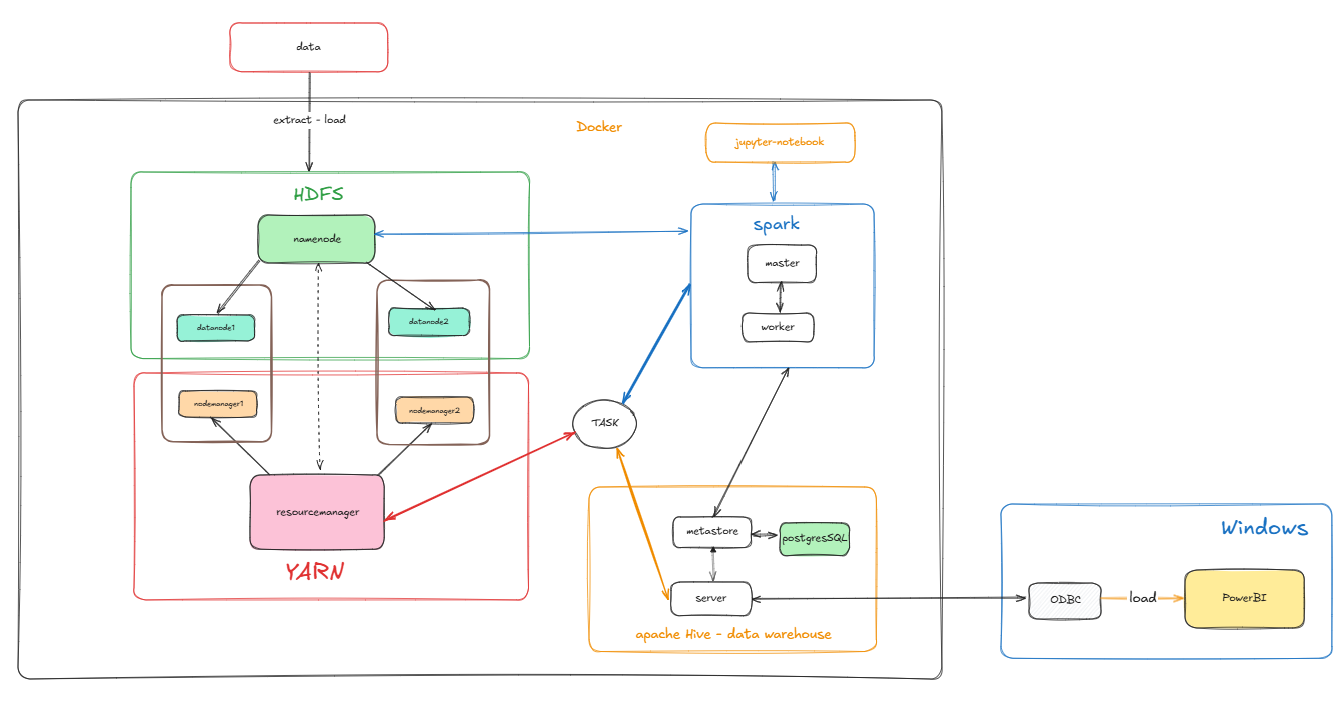
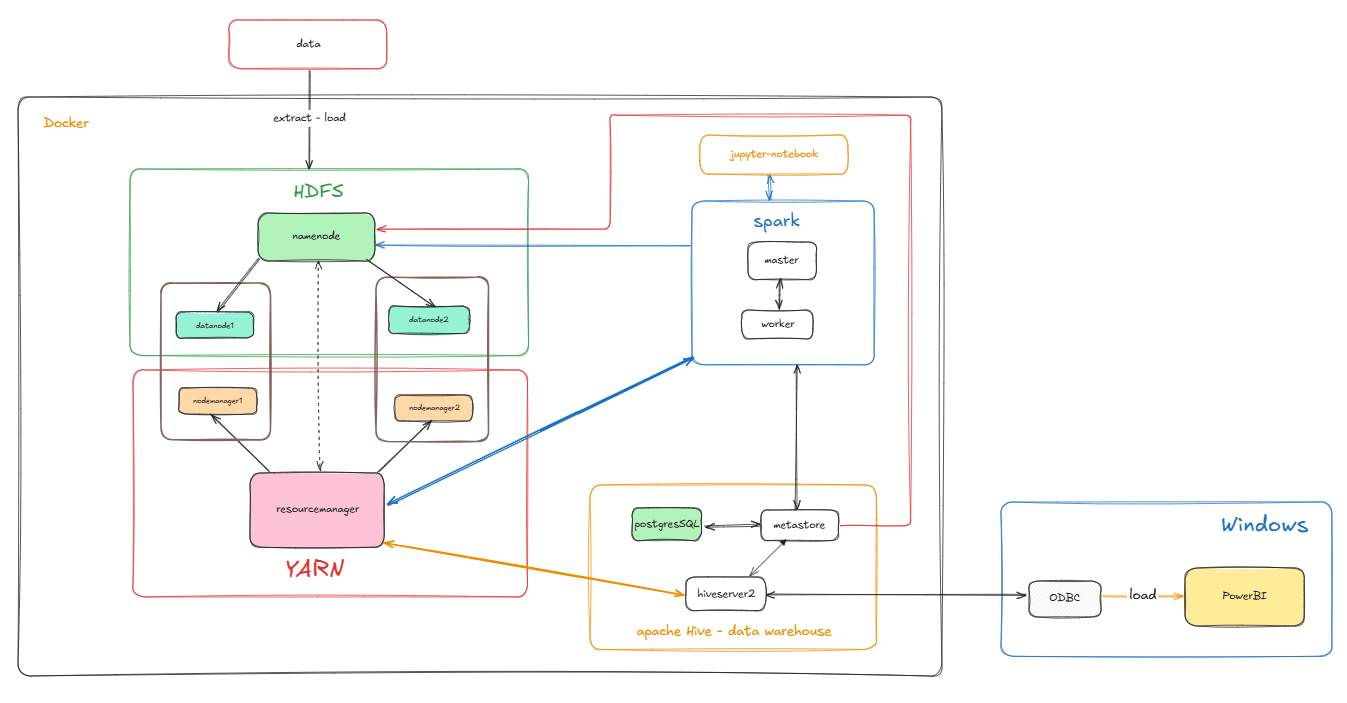
feat: fix confusion of metatstore arch, add hive-web UI

Changed region(s): [[0.0, 0.0299, 1.0, 0.9858], [0.4885, 0.3883, 0.519, 0.478], [0.7327, 0.7468, 0.7632, 0.7767]]

diff --git a/README.md b/README.md
@@ -1,6 +1,9 @@
-# README for Docker-based Big Data Project
+# README for DataSphere Project
+This project is designed to manage a comprehensive data environment, combining both **big data processing** and **data warehousing** using Docker, Hadoop, Apache Hive, Apache Spark, and Jupyter Notebook. The platform enables the storage, processing, and analysis of large-scale datasets while also facilitating structured data management for business intelligence.
 
-This project is designed to manage a big data environment using Docker, Hadoop, Apache Spark, and Jupyter Notebook. The Makefile provided automates several tasks such as starting and stopping Docker containers, updating environment variables, and interacting with HDFS.
+The project utilizes Docker-based images from the [Big Data Europe](https://github.com/big-data-europe) repository. These images are pre-configured for deploying Hadoop, Apache Hive, and Apache Spark, making it easier to set up and manage a big data ecosystem.
+
+The Makefile provided automates several tasks such as starting and stopping Docker containers, updating environment variables, and interacting with HDFS, ensuring a smooth workflow for data processing and analytics.
 
 ## Table of Contents
 
@@ -65,6 +68,7 @@ Stops and removes the running Docker containers associated with the project.
    ```bash
    make push2hdfs
    ```
+   **NOTE**: Ensure that you upload the data to HDFS before checking the service status. This helps the namenode exit safemode, allowing the ResourceManager and other services to connect to the namenode when it exits safemode.
 3. **Access Jupyter Notebook:**
    To retrieve the Jupyter Notebook server token and access the interface, run:
    ```bash 
@@ -107,6 +111,9 @@ Stops and removes the running Docker containers associated with the project.
    ![spark](images/spark.png) 
 
 - **Hive Server:**  
+   To verify the Hiveserver2 service, visit:  
+   [http://localhost:10002/](http://localhost:10002/). If it’s running, you’ll see the Hive Web UI.
+   ![hive-web](images/hive-web.png) 
    You can also check by connecting directly to the hive-server container and use the beeline command to interact with Hive:   
    ```bash
    docker exec -it hive-server /bin/bash
